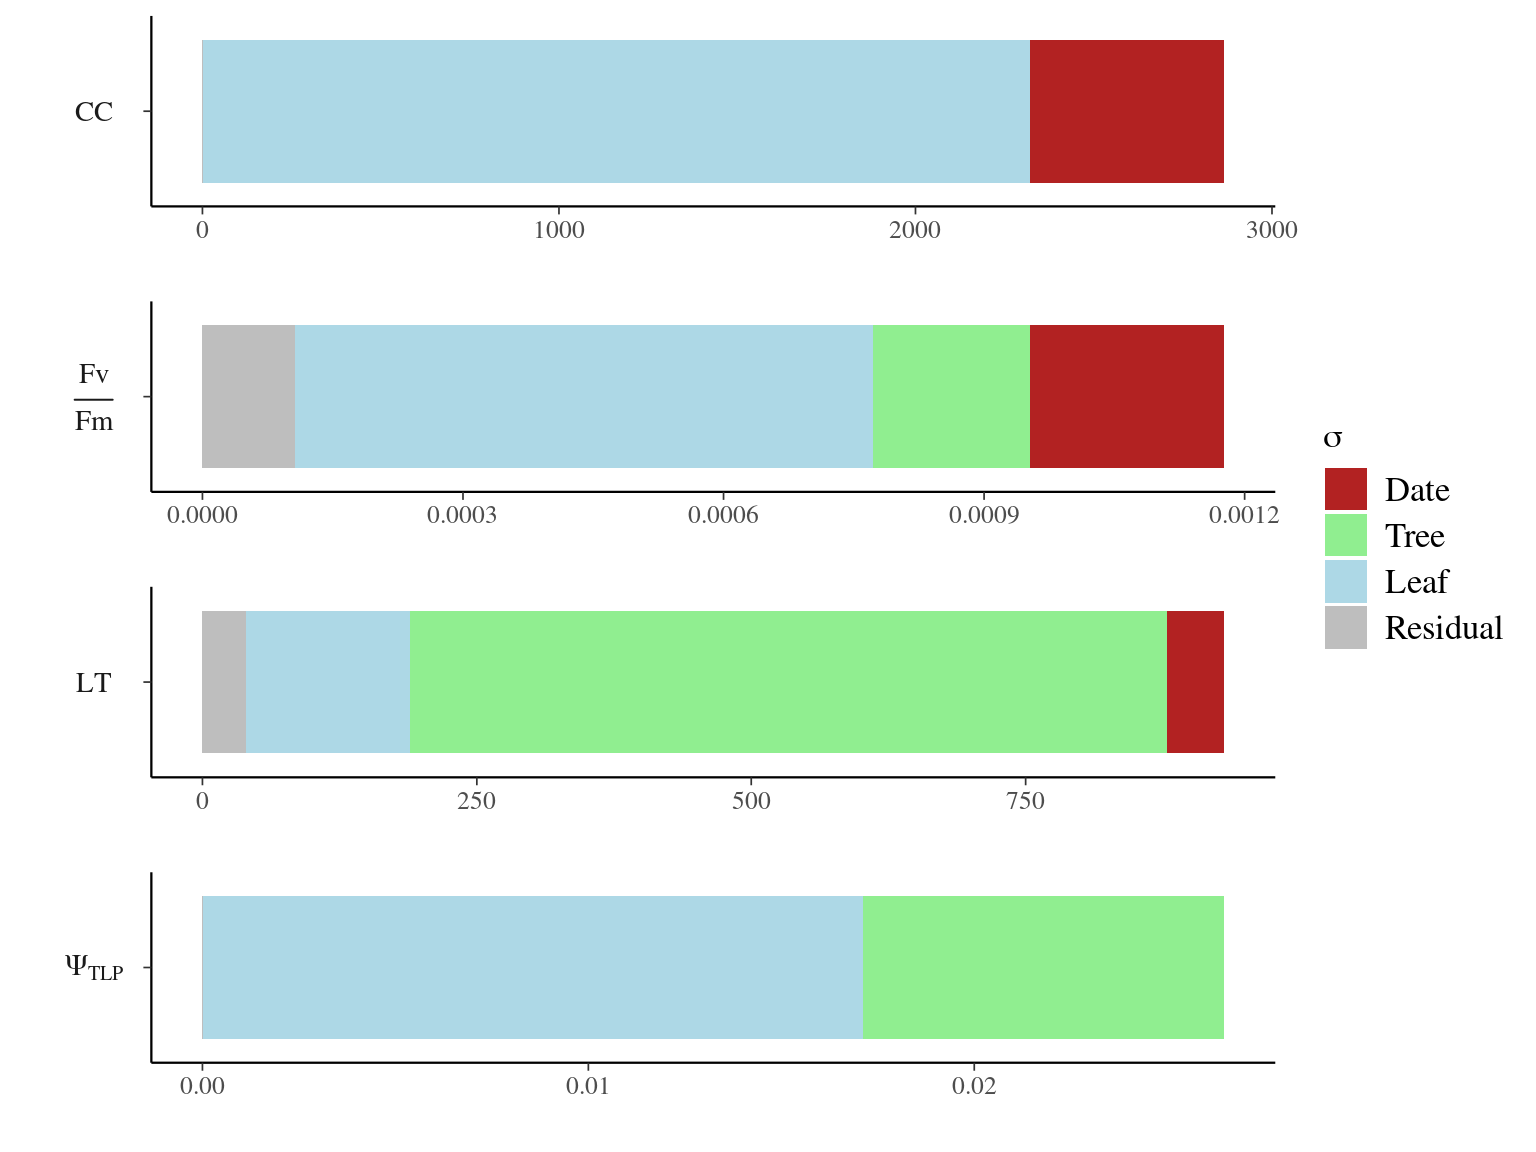
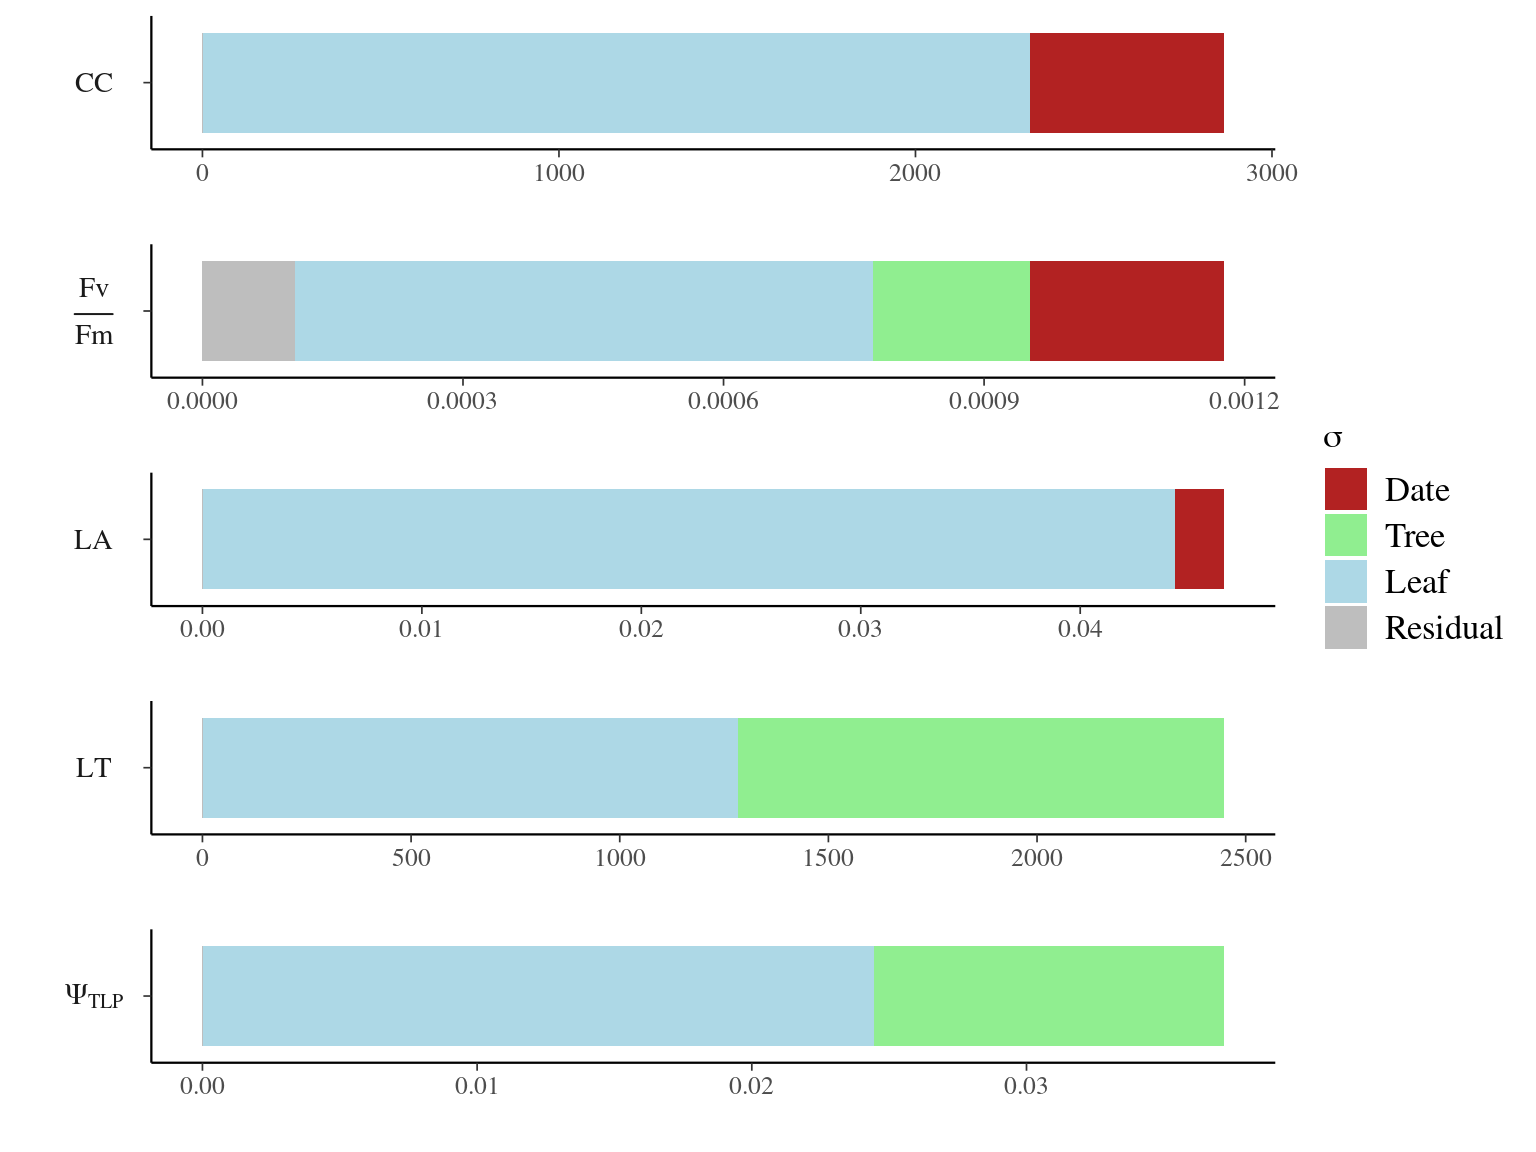
hydroITV 1.0.0.9010 * leaf var: la

diff --git a/docs/leaf-variation.html b/docs/leaf-variation.html
@@ -24,7 +24,7 @@
 <meta name="author" content="Sylvain Schmitt" />
 
 
-<meta name="date" content="2021-09-06" />
+<meta name="date" content="2021-09-08" />
 
   <meta name="viewport" content="width=device-width, initial-scale=1" />
   <meta name="apple-mobile-web-app-capable" content="yes" />
@@ -236,6 +236,18 @@ Figure 5.2: Traits distributions when testing for leaf variation.
 Figure 5.3: Traits variances when testing for leaf variation.
 </p>
 </div>
+<div class="sourceCode" id="cb4"><pre class="sourceCode r"><code class="sourceCode r"><span id="cb4-1"><a href="leaf-variation.html#cb4-1"></a>la &lt;-<span class="st"> </span><span class="kw">read_tsv</span>(<span class="st">&quot;data/traits/leaf/leaf_20210831_LA_ss.tsv&quot;</span>)<span class="op">%&gt;%</span><span class="st"> </span></span>
+<span id="cb4-2"><a href="leaf-variation.html#cb4-2"></a><span class="st">  </span><span class="kw">separate</span>(Label, <span class="kw">paste0</span>(<span class="st">&quot;X&quot;</span>, <span class="dv">1</span><span class="op">:</span><span class="dv">10</span>), <span class="dt">convert =</span> T) <span class="op">%&gt;%</span><span class="st"> </span></span>
+<span id="cb4-3"><a href="leaf-variation.html#cb4-3"></a><span class="st">  </span>dplyr<span class="op">::</span><span class="kw">rename</span>(<span class="dt">Plot =</span> X5, <span class="dt">SubPlot =</span> X6, <span class="dt">TreeFieldNum =</span> X7, <span class="dt">Sample =</span> X10) <span class="op">%&gt;%</span><span class="st"> </span></span>
+<span id="cb4-4"><a href="leaf-variation.html#cb4-4"></a><span class="st">  </span>dplyr<span class="op">::</span><span class="kw">select</span>(Plot, SubPlot, TreeFieldNum, Sample, Area) <span class="op">%&gt;%</span><span class="st"> </span></span>
+<span id="cb4-5"><a href="leaf-variation.html#cb4-5"></a><span class="st">  </span><span class="kw">mutate</span>(<span class="dt">Plot =</span> <span class="kw">as.numeric</span>(<span class="kw">gsub</span>(<span class="st">&quot;P&quot;</span>, <span class="st">&quot;&quot;</span>, Plot)), <span class="dt">SubPlot =</span> <span class="kw">as.numeric</span>(<span class="kw">gsub</span>(<span class="st">&quot;C&quot;</span>, <span class="st">&quot;&quot;</span>, SubPlot))) <span class="op">%&gt;%</span><span class="st"> </span></span>
+<span id="cb4-6"><a href="leaf-variation.html#cb4-6"></a><span class="st">  </span><span class="kw">group_by</span>(Plot, SubPlot, TreeFieldNum, Sample) <span class="op">%&gt;%</span><span class="st"> </span></span>
+<span id="cb4-7"><a href="leaf-variation.html#cb4-7"></a><span class="st">  </span><span class="kw">mutate</span>(<span class="dt">Leaf =</span> <span class="kw">c</span>(<span class="dv">3</span>,<span class="dv">2</span>,<span class="dv">1</span>))</span>
+<span id="cb4-8"><a href="leaf-variation.html#cb4-8"></a>googlesheets4<span class="op">::</span><span class="kw">read_sheet</span>(<span class="st">&quot;https://docs.google.com/spreadsheets/d/19eULgGa02RS6hwn2ngeEu4akF2YdaQGHS5xSac2hIYI/edit?usp=sharing&quot;</span>,</span>
+<span id="cb4-9"><a href="leaf-variation.html#cb4-9"></a>                                  <span class="st">&quot;leaf_soft&quot;</span>) <span class="op">%&gt;%</span><span class="st"> </span></span>
+<span id="cb4-10"><a href="leaf-variation.html#cb4-10"></a><span class="st">  </span>dplyr<span class="op">::</span><span class="kw">select</span>(Plot, SubPlot, TreeFieldNum, Sample, Leaf) <span class="op">%&gt;%</span><span class="st"> </span></span>
+<span id="cb4-11"><a href="leaf-variation.html#cb4-11"></a><span class="st">  </span><span class="kw">left_join</span>(la) <span class="op">%&gt;%</span><span class="st"> </span></span>
+<span id="cb4-12"><a href="leaf-variation.html#cb4-12"></a><span class="st">  </span><span class="kw">write_tsv</span>(<span class="st">&quot;data/traits/leaf/leaf_20210831_LAcor_ss.tsv&quot;</span>)</span></code></pre></div>
 
 </div>
 </div>

diff --git a/docs/index.html b/docs/index.html
@@ -24,7 +24,7 @@
 <meta name="author" content="Sylvain Schmitt" />
 
 
-<meta name="date" content="2021-09-06" />
+<meta name="date" content="2021-09-08" />
 
   <meta name="viewport" content="width=device-width, initial-scale=1" />
   <meta name="apple-mobile-web-app-capable" content="yes" />
@@ -209,7 +209,7 @@ This book is in <b><a href="open.html#open">Open Review</a></b>. I want your fee
 <h1 class="title">hydroITV</h1>
 <h2 class="subtitle"><em>Hydraulic trait inter- versus intra-specific local variability.</em></h2>
 <p class="author"><em>Sylvain Schmitt</em></p>
-<p class="date"><em>2021-09-06</em></p>
+<p class="date"><em>2021-09-08</em></p>
 </div>
 <div id="preface" class="section level1 unnumbered">
 <h1>Preface</h1>

diff --git a/docs/a-not-on-balance-sampling.html b/docs/a-not-on-balance-sampling.html
@@ -24,7 +24,7 @@
 <meta name="author" content="Sylvain Schmitt" />
 
 
-<meta name="date" content="2021-09-06" />
+<meta name="date" content="2021-09-08" />
 
   <meta name="viewport" content="width=device-width, initial-scale=1" />
   <meta name="apple-mobile-web-app-capable" content="yes" />

diff --git a/docs/environment-ontogeny.html b/docs/environment-ontogeny.html
@@ -24,7 +24,7 @@
 <meta name="author" content="Sylvain Schmitt" />
 
 
-<meta name="date" content="2021-09-06" />
+<meta name="date" content="2021-09-08" />
 
   <meta name="viewport" content="width=device-width, initial-scale=1" />
   <meta name="apple-mobile-web-app-capable" content="yes" />

diff --git a/docs/individuals.html b/docs/individuals.html
@@ -24,7 +24,7 @@
 <meta name="author" content="Sylvain Schmitt" />
 
 
-<meta name="date" content="2021-09-06" />
+<meta name="date" content="2021-09-08" />
 
   <meta name="viewport" content="width=device-width, initial-scale=1" />
   <meta name="apple-mobile-web-app-capable" content="yes" />

diff --git a/docs/introduction.html b/docs/introduction.html
@@ -24,7 +24,7 @@
 <meta name="author" content="Sylvain Schmitt" />
 
 
-<meta name="date" content="2021-09-06" />
+<meta name="date" content="2021-09-08" />
 
   <meta name="viewport" content="width=device-width, initial-scale=1" />
   <meta name="apple-mobile-web-app-capable" content="yes" />

diff --git a/docs/literature.html b/docs/literature.html
@@ -24,7 +24,7 @@
 <meta name="author" content="Sylvain Schmitt" />
 
 
-<meta name="date" content="2021-09-06" />
+<meta name="date" content="2021-09-08" />
 
   <meta name="viewport" content="width=device-width, initial-scale=1" />
   <meta name="apple-mobile-web-app-capable" content="yes" />

diff --git a/docs/measurement-error.html b/docs/measurement-error.html
@@ -24,7 +24,7 @@
 <meta name="author" content="Sylvain Schmitt" />
 
 
-<meta name="date" content="2021-09-06" />
+<meta name="date" content="2021-09-08" />
 
   <meta name="viewport" content="width=device-width, initial-scale=1" />
   <meta name="apple-mobile-web-app-capable" content="yes" />

diff --git a/docs/models.html b/docs/models.html
@@ -24,7 +24,7 @@
 <meta name="author" content="Sylvain Schmitt" />
 
 
-<meta name="date" content="2021-09-06" />
+<meta name="date" content="2021-09-08" />
 
   <meta name="viewport" content="width=device-width, initial-scale=1" />
   <meta name="apple-mobile-web-app-capable" content="yes" />

diff --git a/docs/references.html b/docs/references.html
@@ -24,7 +24,7 @@
 <meta name="author" content="Sylvain Schmitt" />
 
 
-<meta name="date" content="2021-09-06" />
+<meta name="date" content="2021-09-08" />
 
   <meta name="viewport" content="width=device-width, initial-scale=1" />
   <meta name="apple-mobile-web-app-capable" content="yes" />

diff --git a/docs/traits-covariation.html b/docs/traits-covariation.html
@@ -24,7 +24,7 @@
 <meta name="author" content="Sylvain Schmitt" />
 
 
-<meta name="date" content="2021-09-06" />
+<meta name="date" content="2021-09-08" />
 
   <meta name="viewport" content="width=device-width, initial-scale=1" />
   <meta name="apple-mobile-web-app-capable" content="yes" />

diff --git a/docs/traits.html b/docs/traits.html
@@ -24,7 +24,7 @@
 <meta name="author" content="Sylvain Schmitt" />
 
 
-<meta name="date" content="2021-09-06" />
+<meta name="date" content="2021-09-08" />
 
   <meta name="viewport" content="width=device-width, initial-scale=1" />
   <meta name="apple-mobile-web-app-capable" content="yes" />
